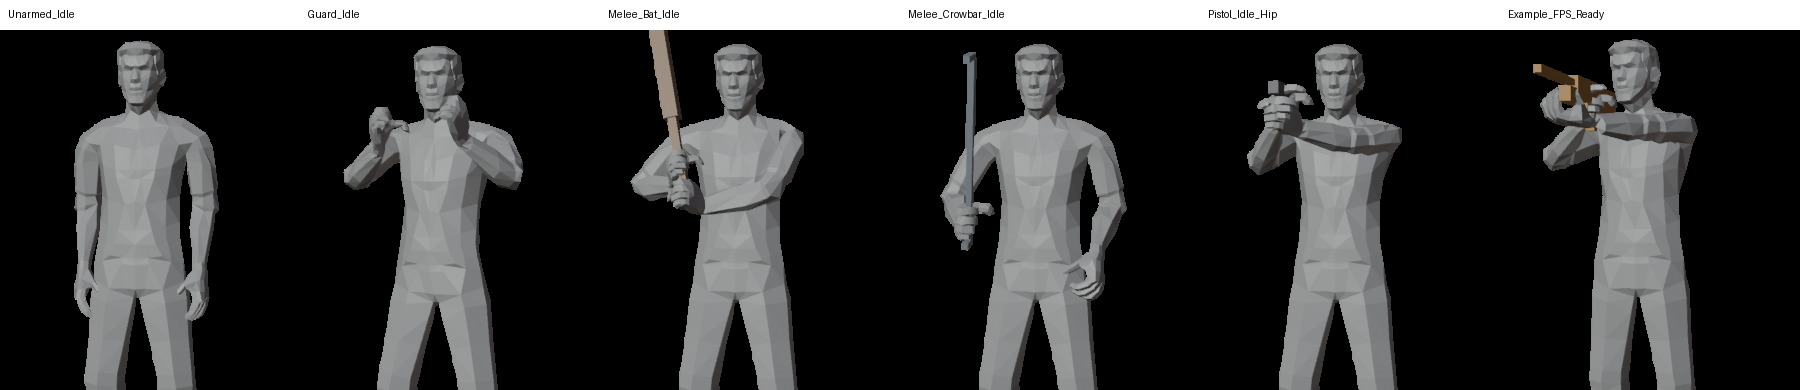
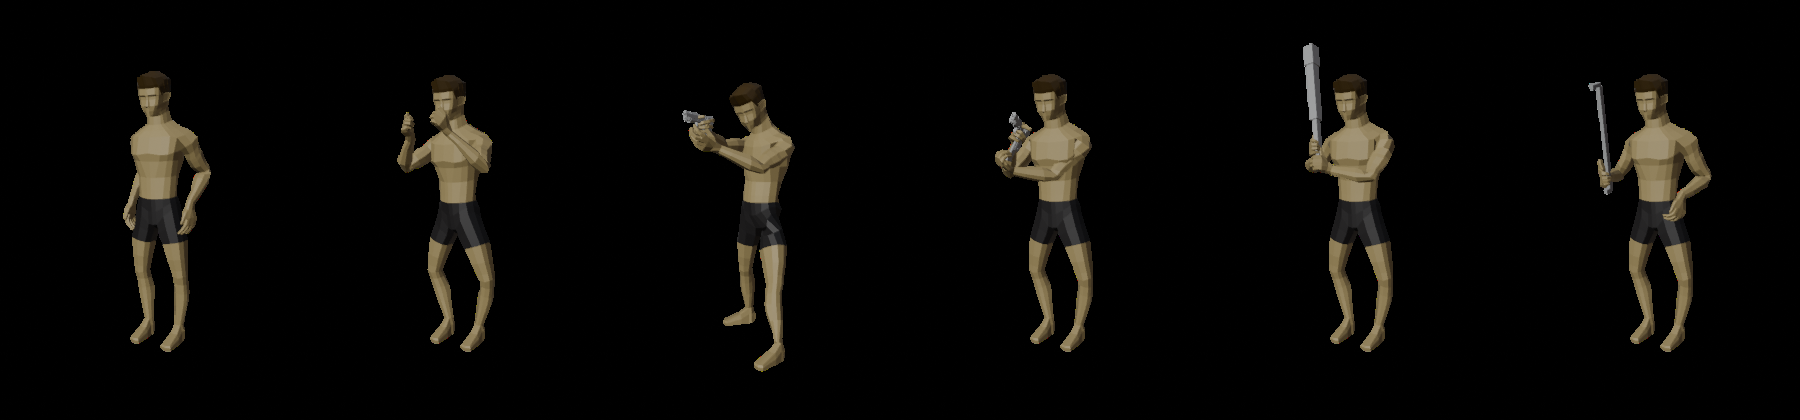
Swap the character to LowPolyGuy and make the rig build character-independent
- Build from Source/Characters/LowPolyGuy_T_Pose.fbx, scaled to 1.75 m (the file is 6.8 m)
- Mesh found via its Armature modifier; eye point measured from head bones and mesh
- sample_clip retargets clips made on another rest pose (bone directions, own bone
  lengths, scaled hips, left hand kept relative to the right): pistol idle loop carried over
- Thumb values re-tuned for the new hand (no thumb inside a weapon)
- Export Character Model (Exports/Character/LowPolyGuy.fbx) for the Unity avatar
- Docs: new source, AnimCamera rest (0, 1.621, 0.138), Unity avatar setup, how to swap characters

Claude-Session: https://claude.ai/code/session_01AEskJ9GV9WH7SBmAFe9Lox

diff --git a/Blender/scripts/build_fps_rig.py b/Blender/scripts/build_fps_rig.py
@@ -1,4 +1,4 @@
-"""One-time construction of Blender/FPS_Rig.blend from Source/LowPolyMale_Rigged.fbx.
+"""One-time construction of Blender/FPS_Rig.blend from the character in Source/Characters/ (any Mixamo rig).
 
 Not needed for animating. Run from the repo root:
     blender -b -P Blender/scripts/build_fps_rig.py
@@ -16,7 +16,8 @@ import bpy
 from mathutils import Matrix, Quaternion, Vector
 
 REPO = os.path.abspath(os.path.join(os.path.dirname(os.path.abspath(__file__)), "..", ".."))
-SRC = os.path.join(REPO, "Source", "LowPolyMale_Rigged.fbx")
+SRC = os.path.join(REPO, "Source", "Characters", "LowPolyGuy_T_Pose.fbx")  # Mixamo-rigged character
+CHARACTER_HEIGHT = 1.75  # metres to the top of the head (HeadTop_End); the source is scaled to this
 M1911_SRC = os.path.join(REPO, "Source", "Weapons", "M1911.fbx")  # prepared by prepare_m1911.py
 OUT = os.path.join(REPO, "Blender", "FPS_Rig.blend")
 TOOLS_SCRIPT = os.path.join(REPO, "Blender", "scripts", "fps_rig_tools.py")
@@ -26,7 +27,6 @@ import fps_rig_tools as tools  # noqa: E402  (shared keying / switch / export lo
 P = "mixamorig:"
 SIDES = {"L": "Left", "R": "Right"}
 FINGERS = ["Thumb", "Index", "Middle", "Ring", "Pinky"]
-EYE_WORLD = Vector((0.0, -0.070, 1.645))  # metres: between the eyes, at the eye-surface plane
 # Right-hand pistol grip, in weapon space (weapon barrel = -Y, up = +Z, pivot at the grip):
 # hand bone Y (wrist -> knuckles) and palm normal (+Z), and wrist offset (along Y, along Z) in metres.
 GRIP_HAND_Y = (0.25, -0.9, 0.25)
@@ -65,11 +65,38 @@ for o in bpy.data.objects:
     o.select_set(True)
 bpy.context.view_layer.objects.active = arm
 bpy.ops.object.transform_apply(location=False, rotation=False, scale=True)
+# Normalise the character to CHARACTER_HEIGHT (a Mixamo download can come in any size), baked the same way
+bpy.context.view_layer.update()
+_top = (arm.matrix_world @ arm.data.bones["mixamorig:HeadTop_End"].head_local).z
+SOURCE_SCALE = CHARACTER_HEIGHT / _top
+if abs(SOURCE_SCALE - 1.0) > 1e-4:
+    arm.scale = arm.scale * SOURCE_SCALE
+    bpy.context.view_layer.update()
+    bpy.ops.object.transform_apply(location=False, rotation=False, scale=True)
+print("character scaled x%.4f to %.2f m" % (SOURCE_SCALE, CHARACTER_HEIGHT))
 
-mesh_obj = bpy.data.objects["SM_LowPolyMale"]
+mesh_obj = next(o for o in bpy.data.objects if o.type == "MESH"
+                and any(m.type == "ARMATURE" and m.object == arm for m in o.modifiers))
 MW = arm.matrix_world.copy()
 INV = MW.inverted()
 INV3 = INV.to_3x3()
+
+
+def _eye_point():
+    """Between the eyes at the face surface: 48 % from Head to HeadTop_End (checked on LowPolyGuy),
+    at the front of the head mesh at that height."""
+    head = MW @ arm.data.bones["mixamorig:Head"].head_local
+    top = MW @ arm.data.bones["mixamorig:HeadTop_End"].head_local
+    z = head.z + 0.48 * (top.z - head.z)
+    gi = mesh_obj.vertex_groups["mixamorig:Head"].index
+    face = [mesh_obj.matrix_world @ v.co for v in mesh_obj.data.vertices
+            if any(g.group == gi and g.weight > 0.5 for g in v.groups)]
+    near = [p for p in face if abs(p.z - z) < 0.02 and abs(p.x) < 0.03] or face
+    return Vector((0.0, min(p.y for p in near), z))  # the character faces -Y
+
+
+EYE_WORLD = _eye_point()
+print("eye point (m):", tuple(round(v, 3) for v in EYE_WORLD))
 
 
 def L(v):
@@ -821,8 +848,8 @@ def bat_pose(phase):
     left_hand_on_socket((0.0, -0.10, 0.0))
     set_world("CTRL_Elbow_Pole.R", (-0.50, 0.10, 1.05))
     set_world("CTRL_Elbow_Pole.L", (0.30, -0.30, 0.90))
-    fingers("R", 82, 55, thumb_spread=-60)  # thumb wrapped around the handle
-    fingers("L", 82, 55, thumb_spread=-60)
+    fingers("R", 82, -10, thumb_spread=-20)  # thumb along the handle
+    fingers("L", 82, -10, thumb_spread=-25)
 
 
 looping_action("Melee_Bat_Idle", {}, bat_pose, LOOP3)
@@ -848,7 +875,7 @@ PISTOL_SUPPORT = (-0.015, -0.025, 0.0)  # left-hand grip offset from the mirrore
 
 
 def pistol_fingers():
-    fingers("R", 70, 50, -40, thumb_spread=-50)  # thumb wrapped along the left side of the frame
+    fingers("R", 70, 20, -40, thumb_spread=10)  # thumb along the left side of the frame
     fingers("L", 78, 30)
 
 
@@ -867,22 +894,62 @@ def pistol_hip_pose(phase):
 PISTOL_IDLE_SRC = os.path.join(REPO, "Source", "Animations", "pistol_idle_loop_fit.glb")
 
 
+def _bone_dir(obj, b):
+    return ((obj.matrix_world @ b.tail_local) - (obj.matrix_world @ b.head_local)).normalized()
+
+
 def sample_clip(path):
-    """World matrices of every Mixamo bone per frame of a clip on the same skeleton, in this rig's bone axes.
-    Returns (frames, start): frames[i][bone] = world matrix. Import axes/bone orientation do not matter:
-    pose = source pose relative to the source rest, applied to this rig's rest (same rest pose)."""
+    """World matrices of every Mixamo bone per frame of a clip (GLB/FBX) made on a Mixamo skeleton, in this
+    rig's bone axes. Returns (frames, start): frames[i][bone] = world matrix.
+    Same rest pose as this rig: exact (source pose relative to its rest, applied to this rig's rest).
+    Other proportions / rest pose: retargeted - every bone points the same way as in the source, positions
+    follow this skeleton's bone lengths, the hips move scaled by hip height, and the left hand keeps its
+    place relative to the right hand (two-handed grips stay closed)."""
     before_o, before_a = set(bpy.data.objects), set(bpy.data.actions)
-    bpy.ops.import_scene.gltf(filepath=path)
+    if path.lower().endswith((".glb", ".gltf")):
+        bpy.ops.import_scene.gltf(filepath=path)
+    else:
+        bpy.ops.import_scene.fbx(filepath=path)
     src = next(o for o in bpy.data.objects if o not in before_o and o.type == "ARMATURE")
     act = src.animation_data.action
     start, end = (int(round(f)) for f in act.frame_range)
     rest = {b.name: src.matrix_world @ b.matrix_local for b in src.data.bones}
     ours = {n: MW @ arm.data.bones[n].matrix_local for n in rest if n in arm.data.bones}
+    same = max((rest[n].translation - ours[n].translation).length for n in ours) < 0.001
+    order = [b.name for b in arm.data.bones if b.name in ours]  # parents before children
+    align = {}
+    for n in ours:  # rotation taking this rig's rest bone direction onto the source's
+        align[n] = _bone_dir(arm, arm.data.bones[n]).rotation_difference(_bone_dir(src, src.data.bones[n])).to_matrix()
+    hip = P + "Hips"
+    hip_k = ours[hip].translation.z / rest[hip].translation.z
     frames = []
     for f in range(start, end + 1):
         scene.frame_set(f)
         bpy.context.view_layer.update()
-        frames.append({n: (src.matrix_world @ src.pose.bones[n].matrix) @ rest[n].inverted() @ ours[n] for n in ours})
+        pose = {n: src.matrix_world @ src.pose.bones[n].matrix for n in ours}
+        if same:
+            frames.append({n: pose[n] @ rest[n].inverted() @ ours[n] for n in ours})
+            continue
+        W = {}
+        for n in order:
+            rot = (pose[n].to_3x3() @ rest[n].to_3x3().inverted()) @ align[n] @ ours[n].to_3x3()
+            par = arm.data.bones[n].parent
+            if par is None or par.name not in W:
+                t = pose[n].translation.copy()
+                if n == hip:
+                    t = Vector((t.x, t.y, t.z * hip_k))
+            else:
+                t = W[par.name] @ (ours[par.name].inverted() @ ours[n].translation)
+            W[n] = Matrix.LocRotScale(t, rot.to_quaternion(), Vector((1, 1, 1)))
+        # two-handed grip: left hand where it was relative to the right hand in the source
+        conv = {n: Matrix.LocRotScale(pose[n].translation, W[n].to_quaternion(), Vector((1, 1, 1)))
+                for n in (P + "RightHand", P + "LeftHand")}
+        lh = W[P + "RightHand"] @ conv[P + "RightHand"].inverted() @ conv[P + "LeftHand"]
+        moved = lh @ W[P + "LeftHand"].inverted()
+        for n in order:  # carry the left fingers along with the hand
+            if n == P + "LeftHand" or n.startswith(P + "LeftHand"):
+                W[n] = moved @ W[n]
+        frames.append(W)
     for o in [o for o in bpy.data.objects if o not in before_o]:
         bpy.data.objects.remove(o)
     for a_ in [a_ for a_ in bpy.data.actions if a_ not in before_a]:
@@ -968,10 +1035,10 @@ for i in (0, n_idle // 2):
     scene.frame_set(1 + i)
     upd()
     for n, m in idle_frames[i].items():
-        if n.endswith(("_End", "4")):
+        if n.endswith(("_End", "4", "ForeArm", "Leg")):  # tips; elbows/knees are free in the IK plane
             continue
         _err = max(_err, ((MW @ pbs[n].matrix).translation - m.translation).length)
-print("pistol idle transfer: max joint error %.4f m (%d frames)" % (_err, n_idle))
+print("pistol idle transfer: max joint error %.4f m, elbows/knees excluded (%d frames)" % (_err, n_idle))
 
 # Pistol_Draw (test animation): unarmed idle -> hand to holster -> pistol appears -> hip aim
 act = new_action("Pistol_Draw", 1, 24)
@@ -995,7 +1062,7 @@ for f in (1, 4, 8, 12, 16, 20, 24):
         melee_body(0.0, lean=3 if f >= 16 else 1)
         set_world("CTRL_Elbow_Pole.R", (-0.45, 0.25 if f < 16 else 0.0, 1.0 if f < 16 else 0.95))
         right_hand_to_socket(right_keys[f])
-        fingers("R", 70, 50, -40 if f >= 12 else 0, thumb_spread=-50)
+        fingers("R", 70, 20, -40 if f >= 12 else 0, thumb_spread=10)
         if f < 16:  # left hand still relaxed, starting to come up
             set_world("CTRL_Elbow_Pole.L", (0.24, 0.45, 1.15))
             set_world("CTRL_Hand_IK.L", (0.20, -0.03 - 0.02 * (f >= 12), 0.96 + 0.06 * (f >= 12)),
@@ -1129,7 +1196,7 @@ for f in (1, 6, 8, 12, 20, 22, 26, 30, 34, 38, 44, 48, 52):
     left_hand_on_socket(PISTOL_SUPPORT)  # overridden below where the left hand is free
     pistol_fingers()
     if f == 8:
-        fingers("R", 70, 40, -40, thumb_spread=-35)  # thumb presses the magazine release
+        fingers("R", 70, 30, -40, thumb_spread=10)  # thumb presses the magazine release
     key_all(f)
     wkey(f)
 # left hand lets go at f8 and works in world space until it is back on the grip at f44
@@ -1219,7 +1286,7 @@ for f in (1, 30):
     set_world("CTRL_Hand_IK.L", grip + Vector((0, -0.19, 0)) - yl * 0.06 - zl * 0.035, yl, zl)
     set_world("CTRL_Elbow_Pole.R", (-0.55, 0.0, 0.95))
     set_world("CTRL_Elbow_Pole.L", (0.45, -0.25, 0.85))
-    fingers("R", 65, 30, -45, thumb_spread=-10)
+    fingers("R", 65, 10, -45, thumb_spread=15)
     fingers("L", 45, -10, thumb_spread=-10)
     key_all(f)
 

diff --git a/Blender/scripts/fps_rig_tools.py b/Blender/scripts/fps_rig_tools.py
@@ -6,6 +6,7 @@
 - Make / Update Weapon Rig: build a small rig for a weapon from its separate part objects.
 - Export this Action / Export all Actions: character clip (+ weapon clip) per Action.
 - Export Weapon Model: the weapon's model + skeleton for a Unity prefab.
+- Export Character Model: the skinned character at rest for the Unity Humanoid avatar.
 - FPS Rig – Tutorial: step-by-step practice for a body and a weapon animation.
 
 Embedded in Blender/FPS_Rig.blend as a text block that registers itself when the file is
@@ -692,6 +693,40 @@ def export_weapon_model(wobj, filepath=None):
         vis.__exit__()
         upd()
     print(f"Exported weapon model -> {filepath}")
+    return filepath
+
+
+def character_mesh(arm=None):
+    arm = arm or get_rig()
+    return next((o for o in bpy.data.objects if o.type == "MESH"
+                 and any(m.type == "ARMATURE" and m.object == arm for m in o.modifiers)), None)
+
+
+def export_character_model(filepath=None):
+    """Skinned character + Mixamo skeleton (and AnimCamera) at rest, for the Unity Humanoid avatar."""
+    arm = get_rig()
+    mesh = character_mesh(arm)
+    if filepath is None:
+        filepath = os.path.join(_exports_dir("Character"), f"{mesh.name}.fbx")
+    prev = arm.data.pose_position
+    hidden = {o: o.hide_get() for o in (arm, mesh)}
+    _sync_state["paused"] += 1
+    try:
+        arm.data.pose_position = "REST"
+        upd()
+        with _ExportState():
+            for o in (arm, mesh):
+                o.hide_set(False)
+                o.select_set(True)
+            bpy.context.view_layer.objects.active = arm
+            _fbx(filepath, {"ARMATURE", "MESH"}, bake=False)
+    finally:
+        arm.data.pose_position = prev
+        for o, h in hidden.items():
+            o.hide_set(h)
+        _sync_state["paused"] -= 1
+        upd()
+    print(f"Exported character model -> {filepath}")
     return filepath
 
 
@@ -1404,6 +1439,21 @@ class FPSRIG_OT_export_all(bpy.types.Operator):
         return {"FINISHED"}
 
 
+class FPSRIG_OT_export_character_model(bpy.types.Operator):
+    """Export the skinned character at rest to Exports/Character/ (for the Unity Humanoid avatar)"""
+    bl_idname = "fpsrig.export_character_model"
+    bl_label = "Export Character Model"
+
+    @classmethod
+    def poll(cls, context):
+        return get_rig() is not None and character_mesh() is not None
+
+    def execute(self, context):
+        path = export_character_model()
+        self.report({"INFO"}, f"Exported {os.path.basename(path)}")
+        return {"FINISHED"}
+
+
 class FPSRIG_OT_export_weapon_model(bpy.types.Operator):
     """Export the current Action's weapon (model + skeleton at rest) to Exports/Weapons/<Weapon>/"""
     bl_idname = "fpsrig.export_weapon_model"
@@ -1579,6 +1629,7 @@ class FPSRIG_PT_panel(bpy.types.Panel):
         row.prop(context.scene, "fpsrig_export_weapon", text="Weapon", toggle=True)
         box.operator(FPSRIG_OT_export_action.bl_idname, icon="ACTION")
         box.operator(FPSRIG_OT_export_all.bl_idname, icon="DOCUMENTS")
+        box.operator(FPSRIG_OT_export_character_model.bl_idname, icon="ARMATURE_DATA")
 
 
 class FPSRIG_PT_tutorial(bpy.types.Panel):
@@ -1624,7 +1675,7 @@ class FPSRIG_PT_tutorial(bpy.types.Panel):
 
 
 CLASSES = (FPSRIG_OT_switch_follow, FPSRIG_OT_set_weapon, FPSRIG_OT_make_weapon_rig, FPSRIG_OT_set_motion,
-           FPSRIG_OT_export_action, FPSRIG_OT_export_all, FPSRIG_OT_export_weapon_model,
+           FPSRIG_OT_export_action, FPSRIG_OT_export_all, FPSRIG_OT_export_weapon_model, FPSRIG_OT_export_character_model,
            FPSRIG_OT_fit_to_keys, FPSRIG_OT_match_end, FPSRIG_OT_select_controls,
            FPSRIG_OT_tut_nav, FPSRIG_OT_tut_run, FPSRIG_OT_tut_reset, FPSRIG_PT_panel, FPSRIG_PT_tutorial)
 

diff --git a/Docs/RIG_PLAN.md b/Docs/RIG_PLAN.md
@@ -2,7 +2,15 @@
 
 Status: implemented in `Blender/FPS_Rig.blend` (built by `Blender/scripts/build_fps_rig.py`, Blender 5.0). Blender-side verification done (§7). **Not yet production-ready:** the Unity-side checks in §7 are still open. How to use it: `Docs/ANIMATOR_GUIDE.md`. Review notes: `Docs/RIG_REVIEW.md`.
 
-## 1. Source inspection (Source/LowPolyMale_Rigged.fbx)
+## 0. Character swap (v1.7): LowPolyGuy
+
+The rig is now built from `Source/Characters/LowPolyGuy_T_Pose.fbx` (Mixamo rig, 65 bones, same names/hierarchy as before; 1 286 verts / 2 532 tris, 4 materials, no UVs yet; weights normalised, no unweighted verts). The file is 6.8 m tall; the build scales the character to `CHARACTER_HEIGHT` = 1.75 m (top of the head) and bakes it, so the rig is in metres as before. The build no longer depends on the character: the mesh is found through its Armature modifier, the eye point is measured from the head bones and mesh (48 % from `Head` to `HeadTop_End`, at the face surface), and ready-made clips are retargeted when the rest pose differs (bone directions, own bone lengths, hips scaled, left hand kept relative to the right). New character: rebuild with another `SRC`.
+
+- `AnimCamera` rest: (0, −0.138, 1.621) m in Blender = Unity (0, 1.621, 0.138). The weapon socket values are unchanged (defined in the hand bone frame).
+- `Exports/Character/LowPolyGuy.fbx`: skinned character at rest for the Unity avatar (66 bones incl. `AnimCamera`).
+- §1 below describes the first character (`Source/LowPolyMale_Rigged.fbx`).
+
+## 1. Source inspection (Source/LowPolyMale_Rigged.fbx, first character)
 
 | Item | Finding |
 |---|---|
@@ -61,15 +69,15 @@ Bone collections: **Main**, **Fingers**, **Finger Detail**, plus hidden **Deform
 
 Uses: accurate FPS preview in Blender, optional animation-driven camera offsets, and cutscenes where the animation temporarily owns the camera.
 
-- Exported bone `AnimCamera` at the eyes: (0, −0.070, 1.645) m. **Top-level** (sibling of `Hips` under the `Armature` node) – i.e. it lives in **character-root space**, the same space the Hips curve lives in.
-- In the exported FBX/Unity it has **identity rest rotation** relative to the character root (verified: FBX Lcl Rotation 0) – +Z = character forward, +Y = up. Rest local position (0, 1.645, 0.07) m.
+- Exported bone `AnimCamera` at the eyes: (0, −0.138, 1.621) m (LowPolyGuy; was (0, −0.070, 1.645) on the first character). **Top-level** (sibling of `Hips` under the `Armature` node) – i.e. it lives in **character-root space**, the same space the Hips curve lives in.
+- In the exported FBX/Unity it has **identity rest rotation** relative to the character root (verified: FBX Lcl Rotation 0) – +Z = character forward, +Y = up. Rest local position (0, 1.621, 0.138) m.
 - Why top-level and not a child of `Head`/`Hips`: a child would inherit breathing, head bob and retargeting differences, and the "offset" would have to be reconstructed by subtracting the head pose. Top-level means the curve already *is* the authored camera, with zero inherited motion. Head-following is opt-in (**Follow Head**) and gets baked into the curve only when chosen.
 - Controls: `CTRL_Camera` (animate) → `AnimCamera` (exported). `MCH_Space_Camera` blends between `CTRL_Root` (default) and the deform `Head` (**Follow Head** = 1, e.g. knockdown/get-up cutscenes).
 - `FPS_View` (Blender camera, 60° vertical FOV = Unity default, 16:9) rides on `AnimCamera`, so it shows *neutral gameplay camera + authored offset*. It does not show player look input or controller-driven crouch height.
 
 Intended Unity use (to implement and verify in Unity – not part of this repo):
 
-- `offset = Inverse(restLocal) * currentLocal`, where `restLocal` = position (0, 1.645, 0.07), identity rotation.
+- `offset = Inverse(restLocal) * currentLocal`, where `restLocal` = position (0, 1.621, 0.138), identity rotation.
 - **Gameplay** (player owns the camera): `camera = playerCamera * offset`. With `CTRL_Camera` untouched the offset is identity, so gameplay is unaffected.
 - **Cutscene** (animation owns the camera): `camera = characterRoot * currentLocal`, blended in/out with a weight. Player look is ignored while the weight is 1.
 - Root-motion caveat: like Hips, `AnimCamera` contains any travel of the body in Blender (moving `CTRL_Root`/`CTRL_Torso` for locomotion). Unity applies root motion to the GameObject but `AnimCamera` is a plain transform, so for clips that use **Apply Root Motion** the camera would be displaced twice. For camera-owned clips either keep the motion in-place (Bake Into Pose) or have the camera script subtract the root motion delta.

diff --git a/Docs/UNITY_INTEGRATION.md b/Docs/UNITY_INTEGRATION.md
@@ -2,10 +2,16 @@
 
 For den som setter opp klippene i Unity. Animatørdelen står i `ANIMATOR_GUIDE.md`.
 
+## 0. Figuren (avataren)
+
+1. Legg `Exports/Character/LowPolyGuy.fbx` i prosjektet. Den inneholder den skinnede figuren i hvilestilling, 1,75 m høy, med Mixamo-skjelettet og `AnimCamera`.
+2. Under **Rig** velger du Animation Type **Humanoid** og Avatar Definition **Create From This Model**. Trykk Apply. Dette blir avataren klippene bruker.
+3. Bytter du figur i Blender, bygges riggen på nytt og fila eksporteres igjen (**Export Character Model** i FPS Rig-panelet).
+
 ## 1. Import av et klipp
 
 1. Legg `Exports/<Navn>.fbx` i prosjektet. Filen har bare skjelett, uten skin, i meter (66 bein: Mixamo + `AnimCamera`).
-2. Under **Rig** velger du Animation Type **Humanoid**, Avatar Definition **Copy From Other Avatar** og den eksisterende Mixamo-avataren. Trykk Apply. Dette er samme arbeidsflyt som for Mixamo-klipp.
+2. Under **Rig** velger du Animation Type **Humanoid**, Avatar Definition **Copy From Other Avatar** og avataren fra `LowPolyGuy.fbx` (§0). Trykk Apply. Dette er samme arbeidsflyt som for Mixamo-klipp.
 3. Under **Animation**:
    - Klippet heter det samme som Blender-Actionen. Sjekk at Start og End stemmer med lengden.
    - Huk av **Loop Time** og **Loop Pose** for `*_Idle`-klippene.
@@ -53,7 +59,7 @@ Ryggraden bøyes i kode etter kamerapitch, f.eks. i LateUpdate eller med en Anim
 
 ## 5. AnimCamera (kamera fra animasjon)
 
-- Hvilestilling (lokal, i forhold til karakterens rot): posisjon **(0, 1.645, 0.07) m**, rotasjon identitet. +Z er fram og +Y er opp.
+- Hvilestilling (lokal, i forhold til karakterens rot): posisjon **(0, 1.621, 0.138) m**, rotasjon identitet. +Z er fram og +Y er opp.
 - Figuren trenger en transform på samme sti som i klippene: **`Armature/AnimCamera`** med hvileverdiene over. Lag den under figurens rot, eller importer figuren fra en eksport av riggen.
 - **Spill (spilleren styrer kameraet):** `offset = Inverse(rest) * current` og `camera = playerCamera * offset`. Klipp som ikke animerer kameraet gir offset lik identitet.
 - **Cutscene (animasjonen styrer kameraet):** `camera = characterRoot * currentLocal`, blandet inn og ut med en vekt.

diff --git a/README.md b/README.md
@@ -1,11 +1,12 @@
 # FPS Animation Rig
 
-Artist-friendly full-body FPS animation rig in Blender for the Mixamo-based `LowPolyMale` character, exporting Unity Humanoid clips.
+Artist-friendly full-body FPS animation rig in Blender for a Mixamo-rigged character (currently `LowPolyGuy`), exporting Unity Humanoid clips.
 
 - `Blender/FPS_Rig.blend` – the rig, with start poses and the **FPS Rig** sidebar panel (N → FPS Rig). Open it and animate; beginners start with the built-in **FPS Rig – Tutorial** panel.
 - `Docs/ANIMATOR_GUIDE.md` – how to animate, rig new weapons (3ds Max → Blender) and export (Norwegian, step by step).
 - `Docs/UNITY_INTEGRATION.md` – importing clips, layers, weapon socket, events, camera offset.
 - `Docs/RIG_PLAN.md` / `Docs/RIG_REVIEW.md` – source inspection, rig design and review notes.
 - `Exports/` – exported FBX clips (character skeleton only); `Exports/Weapons/<Weapon>/` – weapon models and weapon clips (Generic).
-- `Source/LowPolyMale_Rigged.fbx` – untouched reference character.
+- `Source/Characters/` – the character the rig is built from (Mixamo rig, any size: the build scales it to 1.75 m); `Source/Weapons/`, `Source/Animations/` – weapon models and ready-made clips. `Source/LowPolyMale_Rigged.fbx` – the first character, kept for reference.
+- `Exports/Character/` – the skinned character for the Unity Humanoid avatar.
 - `Blender/scripts/` – one-time rig build script and the FPS Rig panel / export tools (also embedded in the .blend).

diff --git a/Docs/ANIMATOR_GUIDE.md b/Docs/ANIMATOR_GUIDE.md
@@ -330,6 +330,18 @@ Det trengs ingen bein i Max.
 
 ---
 
+## 8b. Ny figur
+
+Riggen bygges fra figuren i `Source/Characters/` (nå `LowPolyGuy_T_Pose.fbx`). En annen Mixamo-rigget figur kan tas inn slik:
+1. Last ned fra Mixamo med skin, i T-pose (FBX). Størrelsen spiller ingen rolle, for figuren skaleres til 1,75 m.
+2. Legg den i `Source/Characters/` og sett `SRC` øverst i `Blender/scripts/build_fps_rig.py`.
+3. Kjør byggeskriptet. Kontrollene, kameraet ved øynene, våpnene, startposene og pistol-idle-loopen lages på nytt for figuren.
+4. Eksporter klippene og **Export Character Model**, og lag en ny avatar i Unity (`Docs/UNITY_INTEGRATION.md` §0).
+
+Animasjoner du har laget i en eksisterende `.blend` blir ikke flyttet automatisk. Eksporter dem først. I Unity spilles de av på den nye figuren via Humanoid.
+
+---
+
 ## 9. Begrensninger og tips
 
 - **Foten roterer rundt ankelen.** Det finnes ikke hæl- eller tåpivot. For å løfte hælen roterer du foten og flytter den ned. For tåhev bøyer du også `CTRL_Toe`.

diff --git a/CLAUDE.md b/CLAUDE.md
@@ -6,7 +6,7 @@ Build a clean, artist-friendly **full-body FPS animation rig in Blender** that e
 
 The source character is:
 
-`Source/LowPolyMale_Rigged.fbx`
+`Source/Characters/LowPolyGuy_T_Pose.fbx` (Mixamo rig, scaled to 1.75 m by the rig build; the earlier `Source/LowPolyMale_Rigged.fbx` is kept as a reference)
 
 The character uses a standard **Mixamo humanoid skeleton**. The final exported animations must remain compatible with that skeleton and Unity Humanoid.
 
@@ -156,7 +156,7 @@ Scripts may be used for one-time rig construction, baking, or export automation 
 
 ## Source safety
 
-Treat `Source/LowPolyMale_Rigged.fbx` as the reference source.
+Treat the files in `Source/` (characters, weapons, animations) as reference sources.
 
 Do not overwrite it.
 
